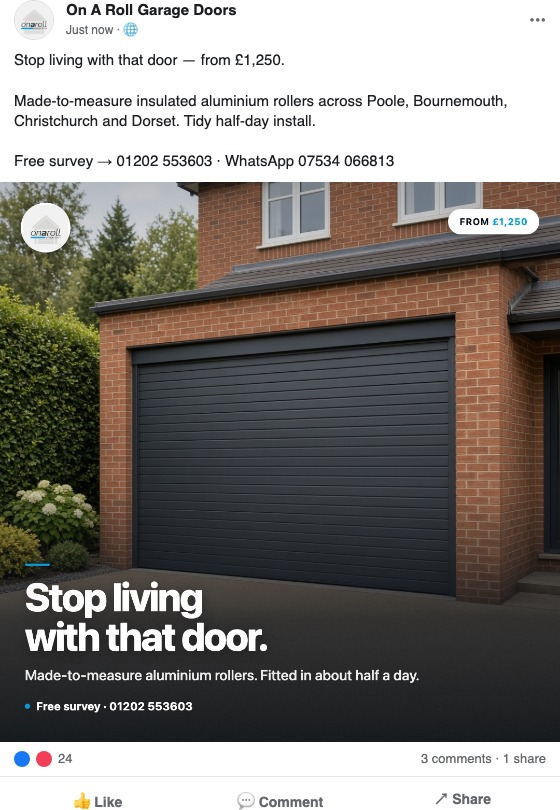
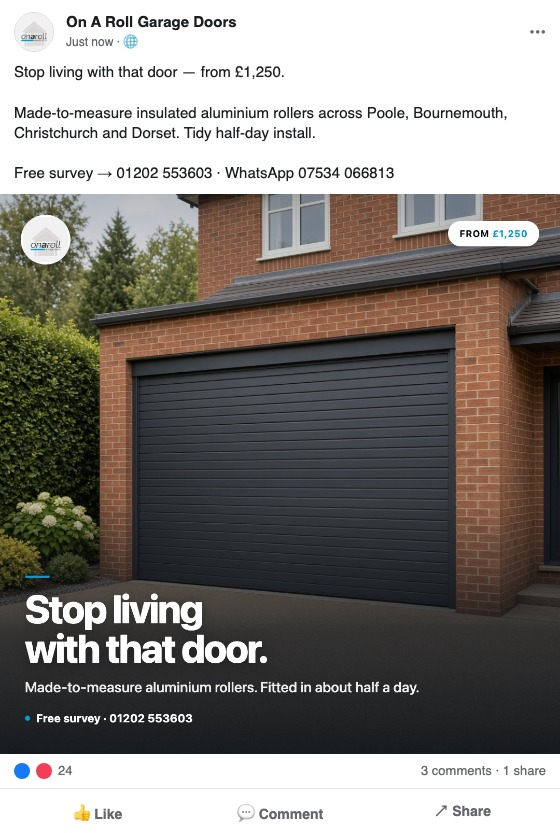
Keep full Facebook chrome in mocks (no over-trim)

diff --git a/APPROVAL-BOARD.html b/APPROVAL-BOARD.html
@@ -49,7 +49,7 @@
     <h2 class="section">1 · Branded creatives (what we post as the image)</h2>
     <div class="grid grid-3">
       <div class="card">
-        <img src="OAR-SM-001.jpg?v=modern3" alt="Stop living with that door" />
+        <img src="OAR-SM-001.jpg?v=modern4" alt="Stop living with that door" />
         <div class="pad">
           <div class="id">OAR-SM-001 · Mon</div>
           <h3>Stop living with that door.</h3>
@@ -57,7 +57,7 @@
         </div>
       </div>
       <div class="card">
-        <img src="OAR-SM-002.jpg?v=modern3" alt="Your garage is an open invite" />
+        <img src="OAR-SM-002.jpg?v=modern4" alt="Your garage is an open invite" />
         <div class="pad">
           <div class="id">OAR-SM-002 · Wed</div>
           <h3>Your garage is an open invite.</h3>
@@ -65,7 +65,7 @@
         </div>
       </div>
       <div class="card">
-        <img src="OAR-SM-003.jpg?v=modern3" alt="Don’t overpay for a garage door" />
+        <img src="OAR-SM-003.jpg?v=modern4" alt="Don’t overpay for a garage door" />
         <div class="pad">
           <div class="id">OAR-SM-003 · Fri</div>
           <h3>Don’t overpay for a garage door.</h3>
@@ -77,15 +77,15 @@
     <h2 class="section">2 · Facebook feed simulation</h2>
     <div class="fb-grid">
       <div class="fb-card">
-        <img src="FB-MOCK-001.jpg?v=modern3" alt="Facebook mock post 1" />
+        <img src="FB-MOCK-001.jpg?v=modern4" alt="Facebook mock post 1" />
         <p>How OAR-SM-001 should look on Facebook</p>
       </div>
       <div class="fb-card">
-        <img src="FB-MOCK-002.jpg?v=modern3" alt="Facebook mock post 2" />
+        <img src="FB-MOCK-002.jpg?v=modern4" alt="Facebook mock post 2" />
         <p>How OAR-SM-002 should look on Facebook</p>
       </div>
       <div class="fb-card">
-        <img src="FB-MOCK-003.jpg?v=modern3" alt="Facebook mock post 3" />
+        <img src="FB-MOCK-003.jpg?v=modern4" alt="Facebook mock post 3" />
         <p>How OAR-SM-003 should look on Facebook</p>
       </div>
     </div>

diff --git a/index.html b/index.html
@@ -49,7 +49,7 @@
     <h2 class="section">1 · Branded creatives (what we post as the image)</h2>
     <div class="grid grid-3">
       <div class="card">
-        <img src="OAR-SM-001.jpg?v=modern3" alt="Stop living with that door" />
+        <img src="OAR-SM-001.jpg?v=modern4" alt="Stop living with that door" />
         <div class="pad">
           <div class="id">OAR-SM-001 · Mon</div>
           <h3>Stop living with that door.</h3>
@@ -57,7 +57,7 @@
         </div>
       </div>
       <div class="card">
-        <img src="OAR-SM-002.jpg?v=modern3" alt="Your garage is an open invite" />
+        <img src="OAR-SM-002.jpg?v=modern4" alt="Your garage is an open invite" />
         <div class="pad">
           <div class="id">OAR-SM-002 · Wed</div>
           <h3>Your garage is an open invite.</h3>
@@ -65,7 +65,7 @@
         </div>
       </div>
       <div class="card">
-        <img src="OAR-SM-003.jpg?v=modern3" alt="Don’t overpay for a garage door" />
+        <img src="OAR-SM-003.jpg?v=modern4" alt="Don’t overpay for a garage door" />
         <div class="pad">
           <div class="id">OAR-SM-003 · Fri</div>
           <h3>Don’t overpay for a garage door.</h3>
@@ -77,15 +77,15 @@
     <h2 class="section">2 · Facebook feed simulation</h2>
     <div class="fb-grid">
       <div class="fb-card">
-        <img src="FB-MOCK-001.jpg?v=modern3" alt="Facebook mock post 1" />
+        <img src="FB-MOCK-001.jpg?v=modern4" alt="Facebook mock post 1" />
         <p>How OAR-SM-001 should look on Facebook</p>
       </div>
       <div class="fb-card">
-        <img src="FB-MOCK-002.jpg?v=modern3" alt="Facebook mock post 2" />
+        <img src="FB-MOCK-002.jpg?v=modern4" alt="Facebook mock post 2" />
         <p>How OAR-SM-002 should look on Facebook</p>
       </div>
       <div class="fb-card">
-        <img src="FB-MOCK-003.jpg?v=modern3" alt="Facebook mock post 3" />
+        <img src="FB-MOCK-003.jpg?v=modern4" alt="Facebook mock post 3" />
         <p>How OAR-SM-003 should look on Facebook</p>
       </div>
     </div>
